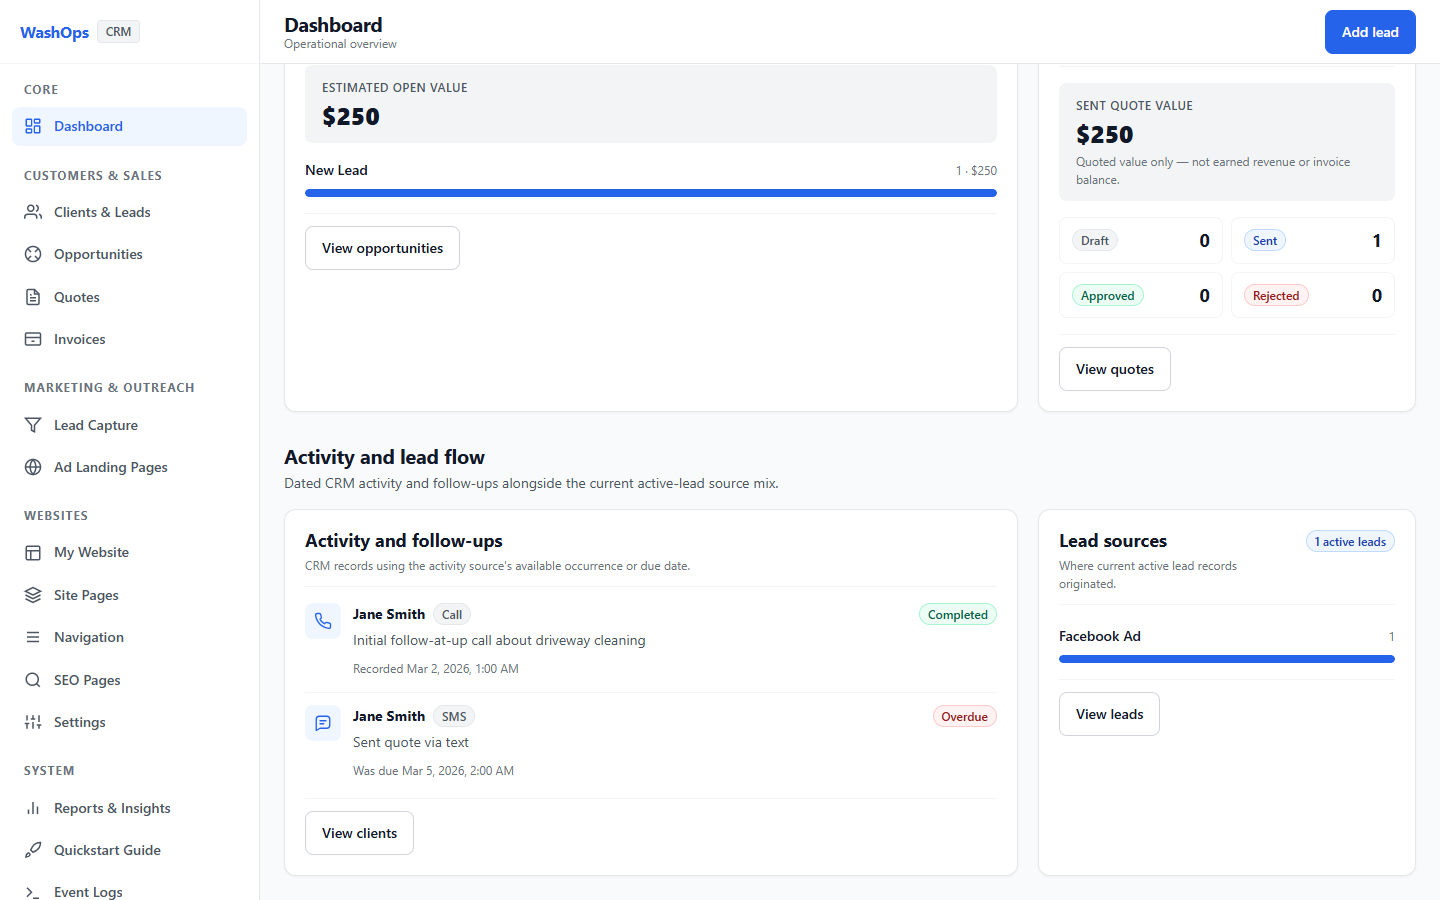
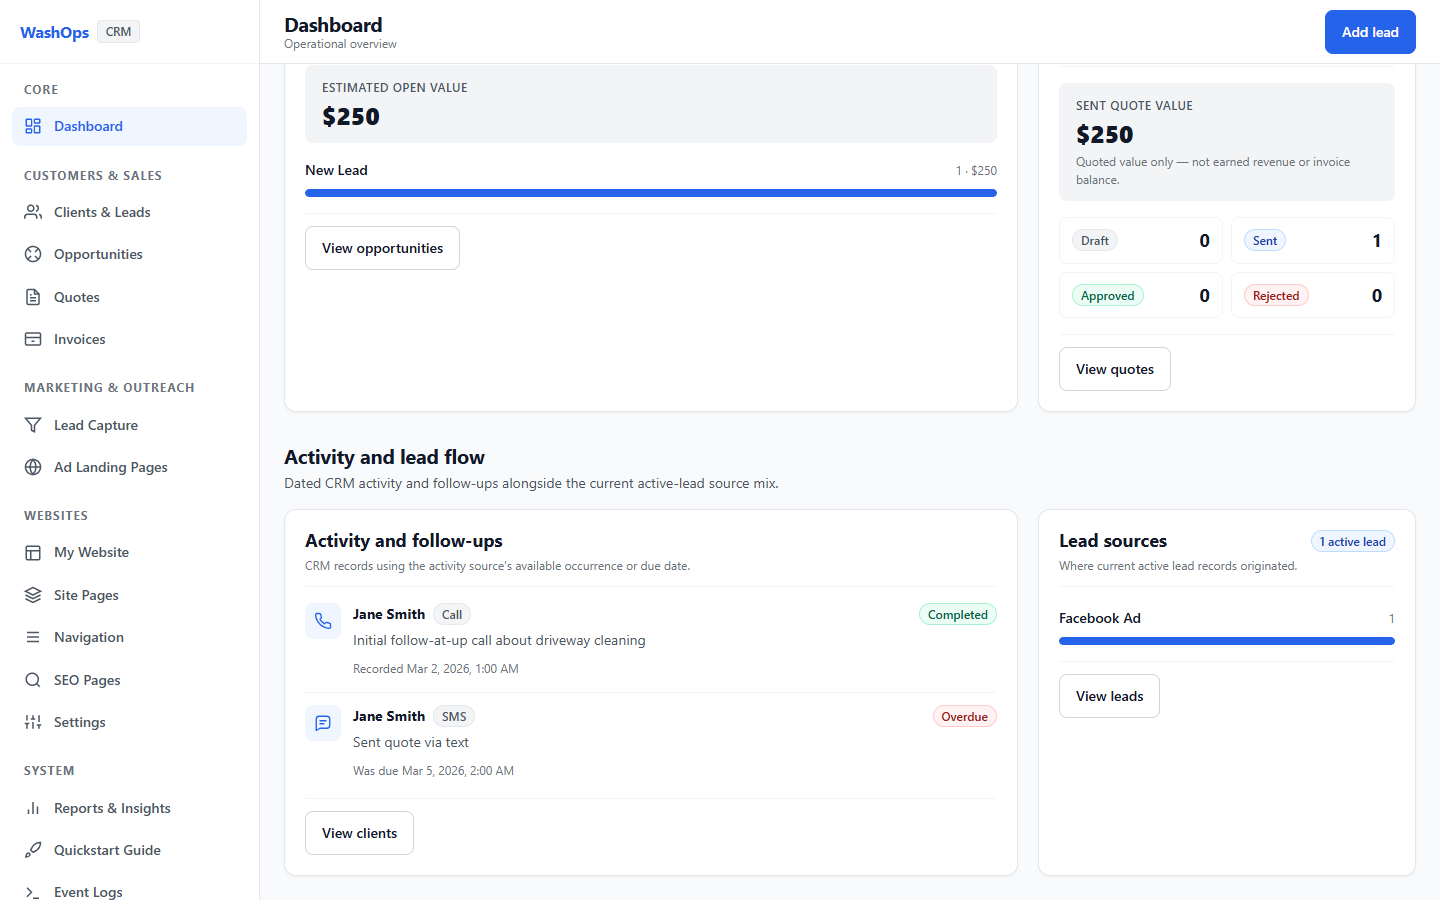
fix(ui): polish dashboard visual evidence

diff --git a/scratch/visual_smoke_task7c1.ts b/scratch/visual_smoke_task7c1.ts
@@ -150,7 +150,10 @@ async function captureDashboardStates(browser: Awaited<ReturnType<typeof chromiu
   let screenshotCount = 0;
   for (const viewport of viewports) {
     for (const state of dashboardStates) {
-      const context = await browser.newContext({ viewport: { width: viewport.width, height: viewport.height } });
+      const context = await browser.newContext({
+        viewport: { width: viewport.width, height: viewport.height },
+        reducedMotion: 'reduce'
+      });
       await context.addInitScript({ content: "window.localStorage.setItem('onboarding_seen', 'true');" });
       const page = await context.newPage();
       await page.route('**/favicon.ico', route => route.fulfill({ status: 204, body: '' }));
@@ -233,7 +236,10 @@ async function smokeOrdinaryRoute(
 async function smokeRegressionRoutes(browser: Awaited<ReturnType<typeof chromium.launch>>): Promise<number> {
   let assertionGroups = 0;
   for (const viewport of viewports) {
-    const context = await browser.newContext({ viewport: { width: viewport.width, height: viewport.height } });
+    const context = await browser.newContext({
+      viewport: { width: viewport.width, height: viewport.height },
+      reducedMotion: 'reduce'
+    });
     await context.addInitScript({ content: "window.localStorage.setItem('onboarding_seen', 'true');" });
     const page = await context.newPage();
     await page.route('**/favicon.ico', route => route.fulfill({ status: 204, body: '' }));

diff --git a/src/ui/dashboard/dashboard.ts b/src/ui/dashboard/dashboard.ts
@@ -297,7 +297,10 @@ function renderActivityPanel(model: DashboardViewModel): string {
 
 function renderLeadSourcesPanel(model: DashboardViewModel): string {
   const accessory = model.leadSources.available
-    ? renderBadge({ label: `${model.leadSources.totalLeads} active leads`, variant: 'info' })
+    ? renderBadge({
+      label: `${model.leadSources.totalLeads} active ${model.leadSources.totalLeads === 1 ? 'lead' : 'leads'}`,
+      variant: 'info'
+    })
     : renderBadge({ label: 'Unavailable', variant: 'danger' });
   let bodyHtml: string;
 

diff --git a/src/ui/dashboard/dashboard.test.ts b/src/ui/dashboard/dashboard.test.ts
@@ -126,6 +126,7 @@ describe('Phase 1C / Task 7C.1 Dashboard visual and data architecture', () => {
     expect(model.quotes).toMatchObject({ totalCount: 2, sentValue: 250 });
     expect(model.leadSources).toMatchObject({ totalLeads: 1 });
     expect(model.leadSources.sources).toEqual([{ source: 'Public website', count: 1, percentage: 100 }]);
+    expect(renderDashboardContent(model)).toContain('1 active lead');
     expect(JSON.stringify(model)).not.toContain('99999');
     expect(JSON.stringify(model)).not.toContain('Foreign');
   });
